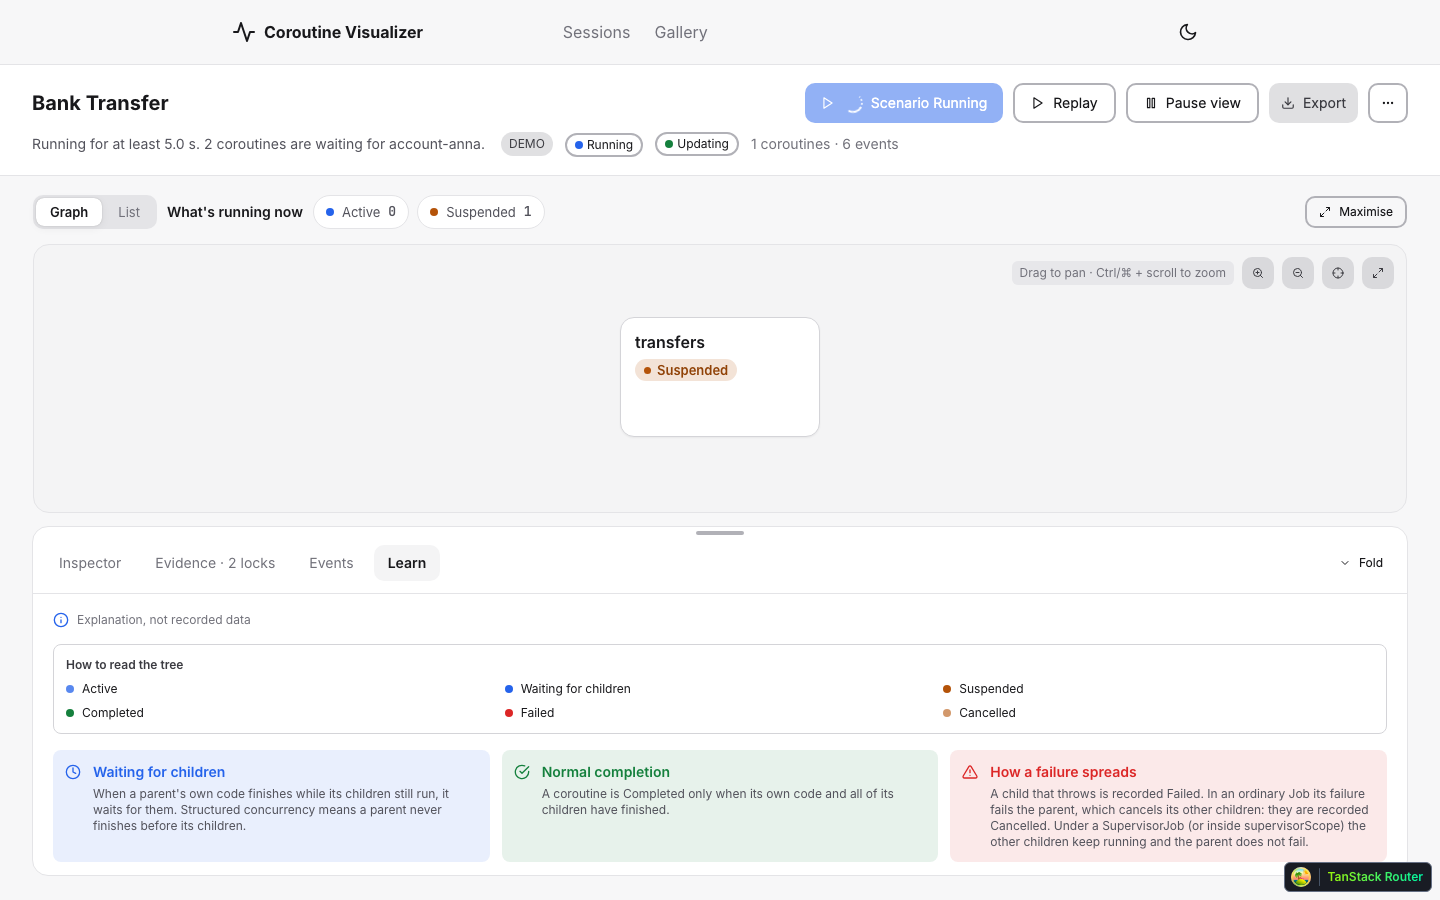
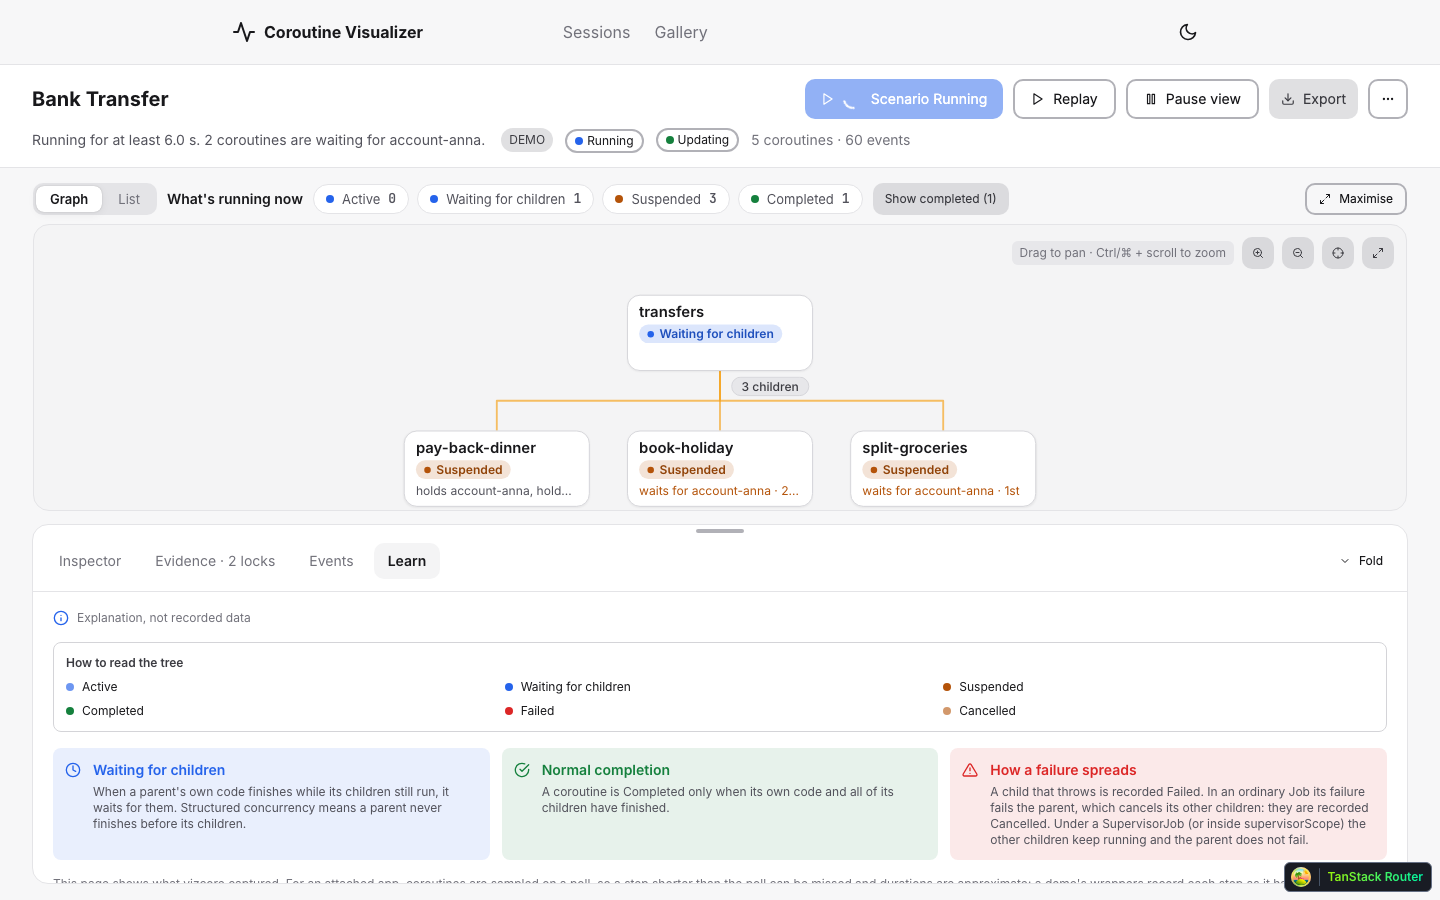
Look B cards: 200 × 82, so the first view at 1440 × 900 shows the root and its whole first row at 12 px or more; tighter chrome; tests read card.css; screenshots retaken

diff --git a/frontend/src/looks/b-calm/look.test.ts b/frontend/src/looks/b-calm/look.test.ts
@@ -47,18 +47,60 @@ describe('B’s CSS', () => {
 
 describe('B’s graph card', () => {
   const css = readFileSync(join(dirname(fileURLToPath(import.meta.url)), 'card.css'), 'utf8').replace(/\/\*[\s\S]*?\*\//g, '')
-  const sizes = [...css.matchAll(/font-size:\s*([\d.]+)px/g)].map(m => Number(m[1]))
+  /** The declarations of the rules whose selector ends on the part itself, as name → value. */
+  const rule = (part: string) =>
+    new Map(
+      [...css.matchAll(/([^{}]+)\{([^}]*)\}/g)]
+        .filter(m => (m[1] ?? '').split(',').some(sel => sel.trim().endsWith(`[data-look-part='${part}']`)))
+        .flatMap(m => [...(m[2] ?? '').matchAll(/([\w-]+):\s*([^;]+);/g)].map(d => [d[1]!, d[2]!.trim()] as const)),
+    )
+  const px = (value: string | undefined) => Number.parseFloat(value ?? 'NaN')
+  /** "8px 12px" → [top, bottom]. */
+  const vertical = (padding: string | undefined): [number, number] => {
+    const [top = Number.NaN, , bottom = top] = (padding ?? '').split(/\s+/).map(px)
+    return [top, bottom]
+  }
 
-  it('keeps every card text at least 12 px on screen at the fit floor', () => {
-    expect(sizes.length).toBeGreaterThanOrEqual(3)
-    expect(calmCard.fitMinZoom).toBeDefined()
-    expect(Math.min(...sizes) * calmCard.fitMinZoom!).toBeGreaterThanOrEqual(12)
+  it('declares the size of every text it shows, and each is at least 12 px on screen at the fit floor', () => {
+    const floor = calmCard.fitMinZoom!
+    expect(floor).toBeGreaterThanOrEqual(0.9)
+    for (const part of ['node-name', 'node-state', 'node-activity', 'node-children']) {
+      const size = px(rule(part).get('font-size'))
+      expect(size, part).toBeGreaterThan(0)
+      expect(size * floor, part).toBeGreaterThanOrEqual(12)
+    }
   })
 
-  it('reserves room for the name, the pill and two lines of the second line', () => {
-    // padding 13 + name 22 + gap 6 + pill 22 + gap 6 + 2 lines × 18 + padding 13
-    expect(calmCard.height).toBeGreaterThanOrEqual(13 + 22 + 6 + 22 + 6 + 2 * 18 + 13)
-    expect(calmCard).toEqual({ width: 200, height: 120, fitMinZoom: 0.93 })
+  it('holds the name, the pill and one line of the second line inside its box, as card.css draws them', () => {
+    const node = rule('node')
+    const [padTop, padBottom] = vertical(node.get('padding'))
+    const border = 2 * px(node.get('border-width'))
+    const gap = px(rule('node-text').get('gap'))
+    const pill = rule('node-state')
+    const [pillTop, pillBottom] = vertical(pill.get('padding'))
+    const contentHeight =
+      border +
+      padTop +
+      padBottom +
+      px(rule('node-name').get('line-height')) +
+      gap +
+      (pillTop + px(pill.get('line-height')) + pillBottom) +
+      gap +
+      px(rule('node-activity').get('line-height'))
+    expect(contentHeight).toBeLessThanOrEqual(calmCard.height)
+    // The name and the second line keep to one line each, so nothing grows past that.
+    expect(rule('node-name').get('-webkit-line-clamp')).toBe('1')
+    expect(rule('node-activity').get('white-space')).toBe('nowrap')
+  })
+
+  it('is short enough for the root and its first row of children above the default dock at 1440 × 900', () => {
+    // The graph canvas there is 287 px tall in B (measured); the fit starts 40 px down (the zoom buttons), and the
+    // layout puts 32 px of padding above the root and 64 px between the rows (CoroutineTreeGraph).
+    const canvas = 287
+    const bottomOfChildren = 40 + (32 + calmCard.height + 64 + calmCard.height) * calmCard.fitMinZoom!
+    expect(bottomOfChildren).toBeLessThanOrEqual(canvas)
+    // Six children (the E-commerce demo) side by side fit the canvas's 1,374 px width at the floor.
+    expect((6 * calmCard.width + 5 * 40 + 64) * calmCard.fitMinZoom!).toBeLessThanOrEqual(1374)
   })
 })
 

diff --git a/frontend/src/looks/b-calm/card.css b/frontend/src/looks/b-calm/card.css
@@ -5,8 +5,10 @@
  * Rules are keyed on the graph's own data-card-look, not on <html>'s
  * data-look: an export sets the page's look aside (Classic dark), and the
  * cards must keep the styling that fits their size.
- * Text is 16 px (name) and 13 px (pill, second line): with card.ts's fit floor
- * it stays at least 12 px on screen at the first fit.
+ * Text is 16 px (name) and 13 px (pill, second line, children label): with
+ * card.ts's fit floor it stays at least 12 px on screen at the first fit. The
+ * card is short (82 px), so on 1440 × 900 with the default dock the first view
+ * holds the root and its whole first row of children.
  * Shown: the name, a state pill and the second line. Hidden: the icon, the
  * running tint, the progress bar and the ID / Job / Scope rows (the Inspector
  * shows those for the selected coroutine).
@@ -37,7 +39,7 @@
 }
 
 [data-card-look='b'] [data-look-part='node'] {
-  padding: 13px 14px;
+  padding: 7px 12px;
   border-width: 1px;
   border-color: hsl(var(--heroui-default-200));
   border-radius: 14px;
@@ -59,13 +61,13 @@
   display: flex;
   flex-direction: column;
   align-items: flex-start;
-  gap: 6px;
+  gap: 4px;
 }
 [data-card-look='b'] [data-look-part='node-name'] {
   max-width: 100%;
   font-size: 16px;
   font-weight: 600;
-  line-height: 22px;
+  line-height: 20px;
   -webkit-line-clamp: 1;
 }
 [data-card-look='b'] [data-look-part='node-state'] {
@@ -76,7 +78,7 @@
   border-radius: 9999px;
   font-size: 13px;
   font-weight: 600;
-  line-height: 18px;
+  line-height: 16px;
   background: hsl(var(--card-hue) / 0.16);
   color: hsl(var(--card-ink));
 }
@@ -91,18 +93,19 @@
 [data-card-look='b'] [data-look-part='node-state'] > span {
   display: none;
 }
-/* What it waits for or holds, on up to two lines. */
+/* What it waits for or holds, on one line (the full text is in the Inspector). */
 [data-card-look='b'] [data-look-part='node-activity'] {
-  display: -webkit-box;
-  -webkit-box-orient: vertical;
-  -webkit-line-clamp: 2;
+  display: block;
   max-width: 100%;
   overflow: hidden;
-  white-space: normal;
+  text-overflow: ellipsis;
+  white-space: nowrap;
   font-size: 13px;
-  line-height: 18px;
+  line-height: 17px;
 }
 [data-card-look='b'] [data-look-part='node-children'] {
   border-radius: 9999px;
   padding: 1px 10px;
+  font-size: 13px;
+  line-height: 17px;
 }

diff --git a/frontend/src/looks/b-calm/tokens.css b/frontend/src/looks/b-calm/tokens.css
@@ -11,14 +11,17 @@ html[data-look='b'] {
   --heroui-radius-large: 16px;
 }
 
+/* The bottom padding is 16 px (the sketch's 24 px less 8): with the tighter
+   header and toolbar below, it gives the graph the height to show a root and
+   its first row of children at a readable size above the default dock. */
 [data-look='b'] [data-look-part='page'] {
-  padding: 24px 32px;
+  padding: 24px 32px 16px;
 }
 
 /* Header to body only: the gap between the main view and the dock stays 12 px,
    which the dock's size rules (lib/dock-layout.ts) assume. */
 [data-look='b'] [data-look-part='workspace'] {
-  gap: 18px;
+  gap: 14px;
 }
 
 [data-look='b'] [data-look-part='main'],
@@ -32,7 +35,7 @@ html[data-look='b'] {
    The negative margins cancel the page's padding at the top and the sides. */
 [data-look='b'] [data-look-part='header'] {
   margin: -24px -32px 0;
-  padding: 18px 32px;
+  padding: 14px 32px;
   background: var(--surface);
   border-bottom: 1px solid var(--border);
 }
@@ -94,7 +97,7 @@ html[data-look='b'] {
 
 [data-look='b'] [data-look-part='main'] > div:first-child {
   gap: 8px 10px;
-  padding: 0 0 14px;
+  padding: 0 0 8px;
   border-bottom-color: transparent;
 }
 
@@ -111,14 +114,14 @@ html[data-look='b'] {
 }
 
 [data-look='b'] [data-look-part='main'] [role='group'][aria-label='View'] > button {
-  padding: 6px 14px;
+  padding: 5px 14px;
   border-radius: 8px;
   font-size: 13px;
 }
 
 /* The state chips: white pills with a hairline border (a chosen chip keeps its tint). */
 [data-look='b'] [data-look-part='main'] [role='group'][aria-label='Coroutine state'] > button {
-  padding: 6px 12px;
+  padding: 4px 12px;
   font-size: 13px;
 }
 

diff --git a/frontend/src/looks/b-calm/card.ts b/frontend/src/looks/b-calm/card.ts
@@ -2,8 +2,9 @@ import type { LookCard } from '../types'
 import './card.css'
 
 /**
- * B's graph card (sketch K-B-Calm): the name, a state pill and two lines for what it waits for or holds.
- * 200 × 120 holds them at card.css's sizes (13 + 22 + 6 + 22 + 6 + 2 × 18 + 13 = 118 px tall). The fit
- * stops at 0.93, where the smallest card text (13 px) is still 12 px on screen.
+ * B's graph card (sketch K-B-Calm): the name, a state pill and the second line, stacked.
+ * 200 × 82 holds them at card.css's sizes (border 2 + padding 14 + 20 + 4 + 20 + 4 + 17 = 81 px), and is
+ * short enough that on 1440 × 900 with the default dock the first view shows the root and its whole first
+ * row of children. The fit stops at 0.93, where the smallest card text (13 px) is still 12 px on screen.
  */
-export const calmCard: LookCard = { width: 200, height: 120, fitMinZoom: 0.93 }
+export const calmCard: LookCard = { width: 200, height: 82, fitMinZoom: 0.93 }

diff --git a/docs/superpowers/plans/2026-11-06-look-b.md b/docs/superpowers/plans/2026-11-06-look-b.md
@@ -116,10 +116,13 @@ Not a live region: the header's outcome pill already announces the outcome, and 
 
 ## Follow-up: B's own graph cards (after #301's per-look cards and fit floor)
 
-#301 gave every look its own card (name, state pill, Part 4's second line; no ID / Job / Scope rows, which stay in the Inspector) and a per-look fit floor. B's card now follows K-B-Calm:
+#301 gave every look its own card (name, state pill, Part 4's second line; no ID / Job / Scope rows, which stay in the Inspector) and a per-look fit floor (`fitMinZoom`). Acceptance for every look: at 1440×900 with the default dock, the first view shows the root **and its whole first row of children**, with card text at least 12 px on screen.
 
-- `b-calm/card.ts`: **200 × 120**, `fitMinZoom: 0.93`. `b-calm/card.css` (every rule `[data-card-look='b']`): white card, 1 px hairline, 14 px corners, a soft shadow through `--tw-shadow` (the selection ring stays), 13×14 px padding; the name 16 px semibold on one line, a round state pill (13 px, its own dot, the state's tint), the second line 13 px on up to two lines. The state colours are the shared ones.
-- **Readable at the first fit:** the smallest card text is 13 px, so at the floor (0.93) it is 12.1 px on screen; the name 14.9 px. Measured at 1440×900 with the default dock (Bank Transfer, Order Processing, E-commerce Orders; dark and light; 1440 and 1024): name ≥ 14.8 px, pill and second line ≥ 12.1 px. With the default dock the canvas is 269 px tall, so a two-level tree opens with the root and the top of the next row (the floor's framing); Maximise or the fold show the rest at full size, and "Fit to view" shows everything smaller.
-- Tests (`look.test.ts`): card text × floor ≥ 12 px; the card's height holds its parts.
-- Remaining differences from the sketch's cards: the pills use the look's shared state colours (the sketch's amber is lighter), and a waiting second line is in the warning colour (Part 4's shared rule) where the sketch keeps it grey; the text is 1 px larger than the sketch's, so the fit floor can stay near 1.
-- Checks: gates green (1,354 tests in 136 files), Classic before/after against `feat/look-switch` 0 differing pixels in all four. Screenshots `cards-*.png`, `side-by-side-sketch-vs-b-cards-1440.png`, `cards-closeup-sketch-vs-b.png`.
+- `b-calm/card.ts`: **200 × 82**, `fitMinZoom: 0.93`. `b-calm/card.css` (every rule `[data-card-look='b']`): white card, 1 px hairline, 14 px corners, a soft shadow through `--tw-shadow` (no `box-shadow`, so the selection ring stays), 7×12 px padding; stacked like the sketch: the name (16 px semibold, one line), a round state pill (13 px, its own dot, the state's shared tint), the second line (13 px, one line, ellipsis); the "N children" label 13 px.
+- **Why these numbers:** the fit starts 40 px down (the zoom buttons), with 32 px of padding above the root and 64 px between rows, so the first row's bottom is at 40 + (32 + H + 64 + H) × floor. B's graph canvas at 1440×900 with the default dock is 287 px tall (the main view sits at its 320 px minimum there), so H must be ≤ 84 at 0.93. 0.93 × 13 px = 12.1 px on screen. Six children (E-commerce) are (6 × 200 + 5 × 40 + 64) × 0.93 = 1,362 px wide, inside the canvas's 1,374 px.
+- **B's chrome, tightened to give the graph that height:** header padding 18 → 14 px, header-to-body gap 18 → 14 px, page bottom padding 24 → 16 px, the main toolbar's bottom padding 14 → 8 px, and its chips and Graph / List 2 px and 1 px slimmer. (Small departures from the sketch's spacing.)
+- **Measured** (1440×900, default dock, dark and light): E-commerce (finished: root and 6 children) and Bank Transfer (running: root and 3 children, with waits): every card fully inside the canvas, nothing inside a card spills out of it, name 14.8 px, pill, second line and labels 12.1 px on screen. At 1024 px the toolbar wraps to two lines, the canvas is shorter, and the first row is cut; the rule is for 1440.
+- Tests (`look.test.ts`): every card text part declares its size and × floor ≥ 12 px (Codex: the children label inherited 12 px); the card's height holds the parts as card.css draws them (read from the CSS: border, padding, line heights, pill padding, gaps; name and second line one line each); the first row's bottom fits a 287 px canvas and six children fit 1,374 px.
+- **Gaps from the sketch's cards:** long names and second lines are cut to one line with an ellipsis (the sketch wraps the second line; full text in the Inspector and the name's tooltip), the pills use the shared state colours (the sketch's amber is lighter), a waiting second line is amber (Part 4's shared rule) where the sketch keeps it grey, and the text is 1 px larger than the sketch's so the floor can stay near 1.
+- Checks: gates green, Classic before/after against `feat/look-switch` (37a6e3ef) 0 differing pixels in all four. Screenshots `cards-b-{ecom,sync}-{light,dark}-1440.png`, `side-by-side-sketch-vs-b-cards-{ecom,sync}-1440.png`; the page screenshots `b-*.png` and the side-by-sides were retaken with the new cards.
+- **Codex (cards):** R1 request changes: P2 the children label stayed 12 px (11.2 px at the floor) → 13 px and part of the size test; P3 the height test used fixed numbers → it reads card.css, and the browser check confirms nothing spills out of a card. (The card then got shorter for the first-view rule.)
